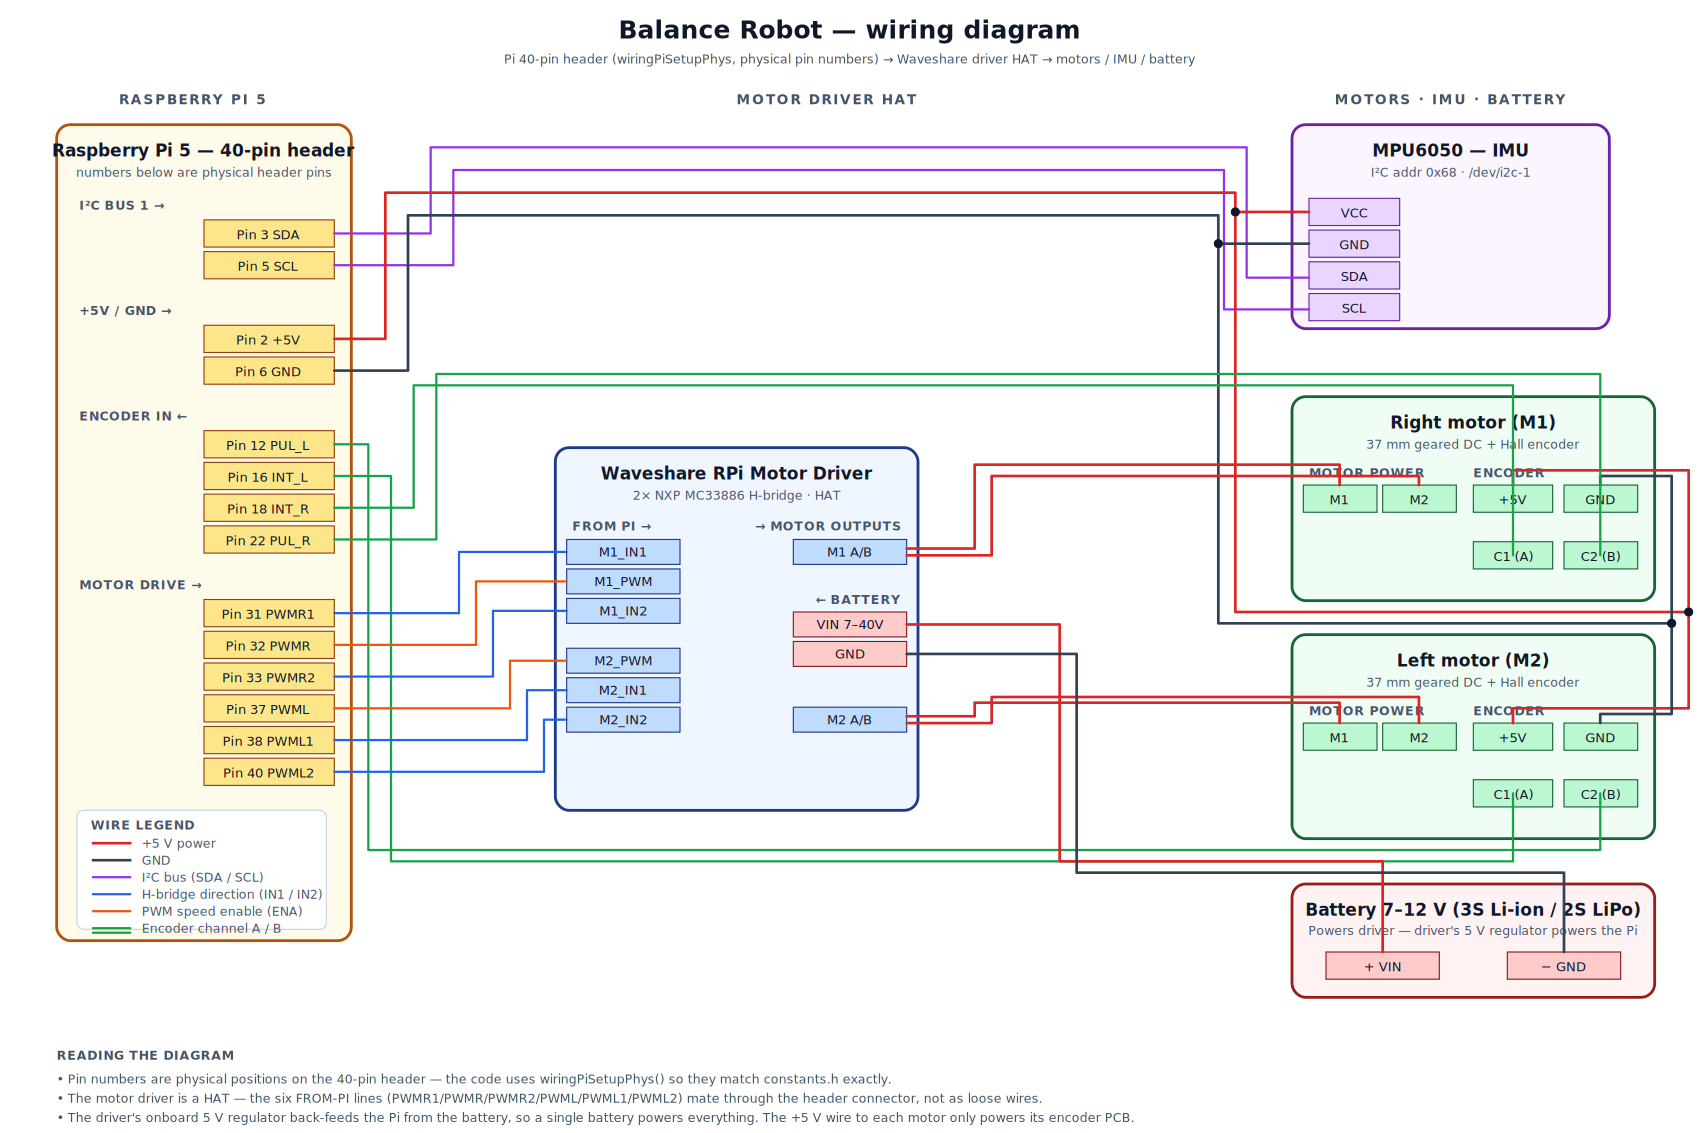
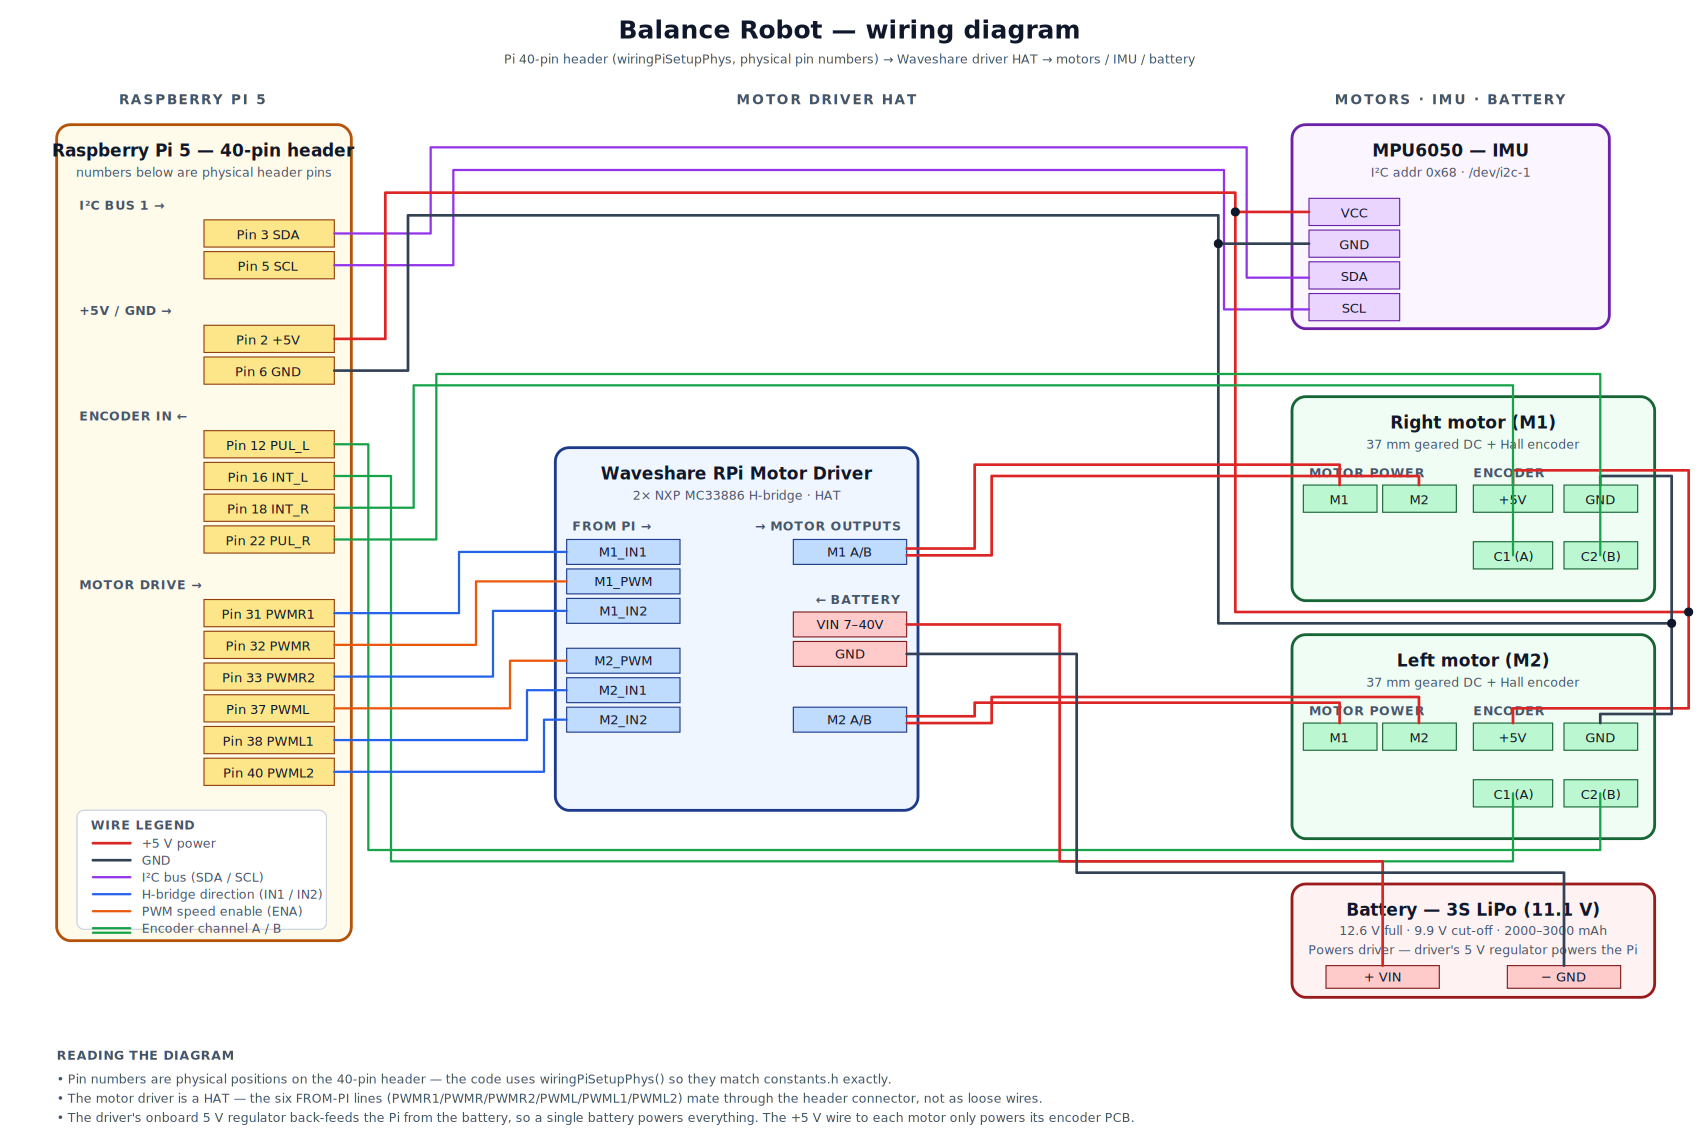
fix

Changed region(s): [[0.7794, 0.7723, 0.9665, 0.8959]]

diff --git a/README.md b/README.md
@@ -135,6 +135,7 @@ mResetTrim     = 0xf4  // Reset trim
 | **IMU** | MPU6050 — 6-axis (3-axis accel + 3-axis gyro), I²C bus 1, address `0x68`. Fused through a Kalman filter to recover pitch angle. |
 | **Motor driver** | Waveshare RPi Motor Driver Board — dual H-bridge HAT, **2× NXP MC33886** (one chip per motor) |
 | **Drive motors** | 2× 37 mm geared DC motor with Hall quadrature encoder, ~100 RPM @ 4.5 V / ~200 RPM @ 9 V |
+| **Battery** | 3S LiPo — 11.1 V nominal (12.6 V full, 9.9 V suggested cut-off), 2000–3000 mAh, 20C+ discharge |
 | **Chassis** | 190 mm aluminium balance-bot plate, 3 mm acrylic top, 65 mm × 26 mm rubber tires on electroplated plastic hubs, ~520 g bare |
 
 ### Motor driver — Waveshare RPi Motor Driver Board
@@ -204,6 +205,35 @@ The `ProjectFiles/` folder ships with STL meshes for the printable upper structu
 | [`Robot_mask.stl`](ProjectFiles/Robot_mask.stl) | Decorative front mask / face plate. Large mesh (~27 MB), purely aesthetic. |
 
 Also previously in `ProjectFiles/`: `Raspberry_Pi_Model_B.STL`, `Robot_chasis_bottom_with_mpu6050.stl`, `Robot_chasis_top_for_raspberry.stl`, `Robot_chasis_top_single_for_raspberry.stl`, `Robot_chasis_top_with_raspberry.stl`, `Robot_safe_top_for_raspberry.stl`, plus the FreeCAD source files `robot_safe.FCStd` and `robot_top.FCStd` if you want to modify them.
+
+### Power system
+
+The robot runs on a single **3S LiPo battery — 11.1 V nominal**. The Waveshare driver's `VIN` input accepts 7–40 V, so 3S is comfortably within range. A single pack powers everything:
+
+```
+3S LiPo (11.1 V) ──> Driver VIN ──> MC33886 H-bridges ──> motors (full 11.1 V)
+                          │
+                          └──> Onboard 5 V regulator ──> Raspberry Pi 5 (via the HAT)
+                                                          │
+                                                          └──> +5 V rail ──> MPU6050 + encoder PCBs
+```
+
+| Spec | Value |
+|---|---|
+| Battery | 3S LiPo — 3 cells in series |
+| Nominal voltage | 11.1 V (3 × 3.7 V) |
+| Fully charged | 12.6 V (3 × 4.20 V) |
+| Suggested cut-off | ~9.9 V (3 × 3.30 V) — below this, balancing degrades and cells age fast |
+| Capacity | 2000–3000 mAh is typical (≈30–60 min runtime depending on motor load) |
+| Discharge rating | 20C or higher recommended — peak current can hit 10 A momentarily during a hard correction |
+| Connector | XT60 or XT30 to the driver's VIN terminal block (XT60 preferred for >20 A continuous) |
+
+**Safety notes:**
+
+- **LiPo packs are fire hazards if mistreated.** Always charge in a LiPo-safe bag, never leave a charging pack unattended, and never discharge any cell below 3.0 V.
+- A small **inline voltage alarm** that buzzes below 3.3 V/cell is cheap insurance — the Pi has no battery monitoring on its own.
+- **Polarity matters.** The driver has reverse-voltage protection on the supply input, but the protection has its limits; double-check polarity before plugging in a freshly-charged pack.
+- When the pack voltage drops below ~9.5 V, you'll notice the robot can no longer balance under hard corrections (PWM saturates). That's your cue to land it and swap packs.
 
 ### Raspberry Pi pin reference
 
@@ -431,7 +461,7 @@ BalanceRobotRemote_IOS/         # iOS side (Swift)
 
 ## Known limits
 
-- At low battery voltage, PWM saturates and balancing degrades
+- Below ~9.5 V on the 3S pack (≈3.17 V/cell), PWM saturates during hard corrections and balancing degrades — land and swap packs
 - On slippery floors, wheel slip causes encoder velocity to lie
 - Very fast maneuvers can saturate the IMU rate gyro
 
